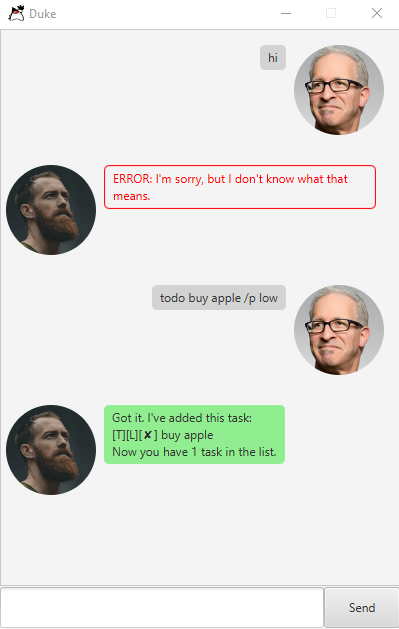
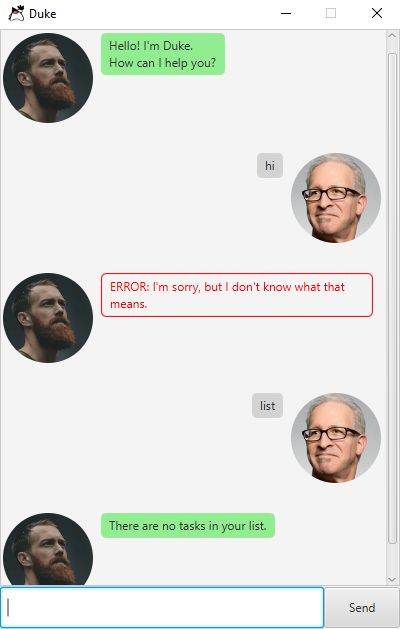
Display introduction message upon launching GUI

diff --git a/src/main/java/duke/gui/MainWindow.java b/src/main/java/duke/gui/MainWindow.java
@@ -1,5 +1,6 @@
 package duke.gui;
 
+import duke.Ui;
 import javafx.fxml.FXML;
 import javafx.scene.control.Button;
 import javafx.scene.control.ScrollPane;
@@ -16,6 +17,8 @@ public class MainWindow extends AnchorPane {
     /** GUI for Duke. */
     private Main dukeGui;
 
+    private boolean isFirstLaunch = true;
+
     @FXML
     private ScrollPane scrollPane;
     @FXML
@@ -28,9 +31,20 @@ public class MainWindow extends AnchorPane {
     private final Image userImage = new Image(this.getClass().getResourceAsStream("/images/DaUser.png"));
     private final Image dukeImage = new Image(this.getClass().getResourceAsStream("/images/DaDuke.png"));
 
+    /**
+     * Initializes the main window.
+     * Displays the introduction message if this is the first launch.
+     */
     @FXML
     public void initialize() {
         this.scrollPane.vvalueProperty().bind(dialogContainer.heightProperty());
+
+        if (isFirstLaunch) {
+            isFirstLaunch = false;
+            this.dialogContainer
+                    .getChildren()
+                    .add(DialogBox.getDukeDialog(new Ui(true).displayIntroduction(), this.dukeImage));
+        }
     }
 
     /**

diff --git a/src/main/java/duke/Ui.java b/src/main/java/duke/Ui.java
@@ -21,16 +21,23 @@ public class Ui {
 
     /**
      * Displays Duke's introduction message.
+     *
+     * @return Introduction to be displayed if GUI is used.
      */
-    public void displayIntroduction() {
+    public String displayIntroduction() {
         String divider = "____________________________________________________________\n";
         String logo = " ____        _        \n"
                 + "|  _ \\ _   _| | _____ \n"
                 + "| | | | | | | |/ / _ \\\n"
                 + "| |_| | |_| |   <  __/\n"
                 + "|____/ \\__,_|_|\\_\\___|\n\n";
-        String welcome = "Hello! I'm Duke.\n";
-        System.out.println(divider + logo + welcome + divider);
+        String welcome = "Hello! I'm Duke.\n" + "How can I help you?\n";
+        if (hasGui) {
+            return welcome;
+        } else {
+            System.out.println(divider + logo + welcome + divider);
+            return "";
+        }
     }
 
     /**
